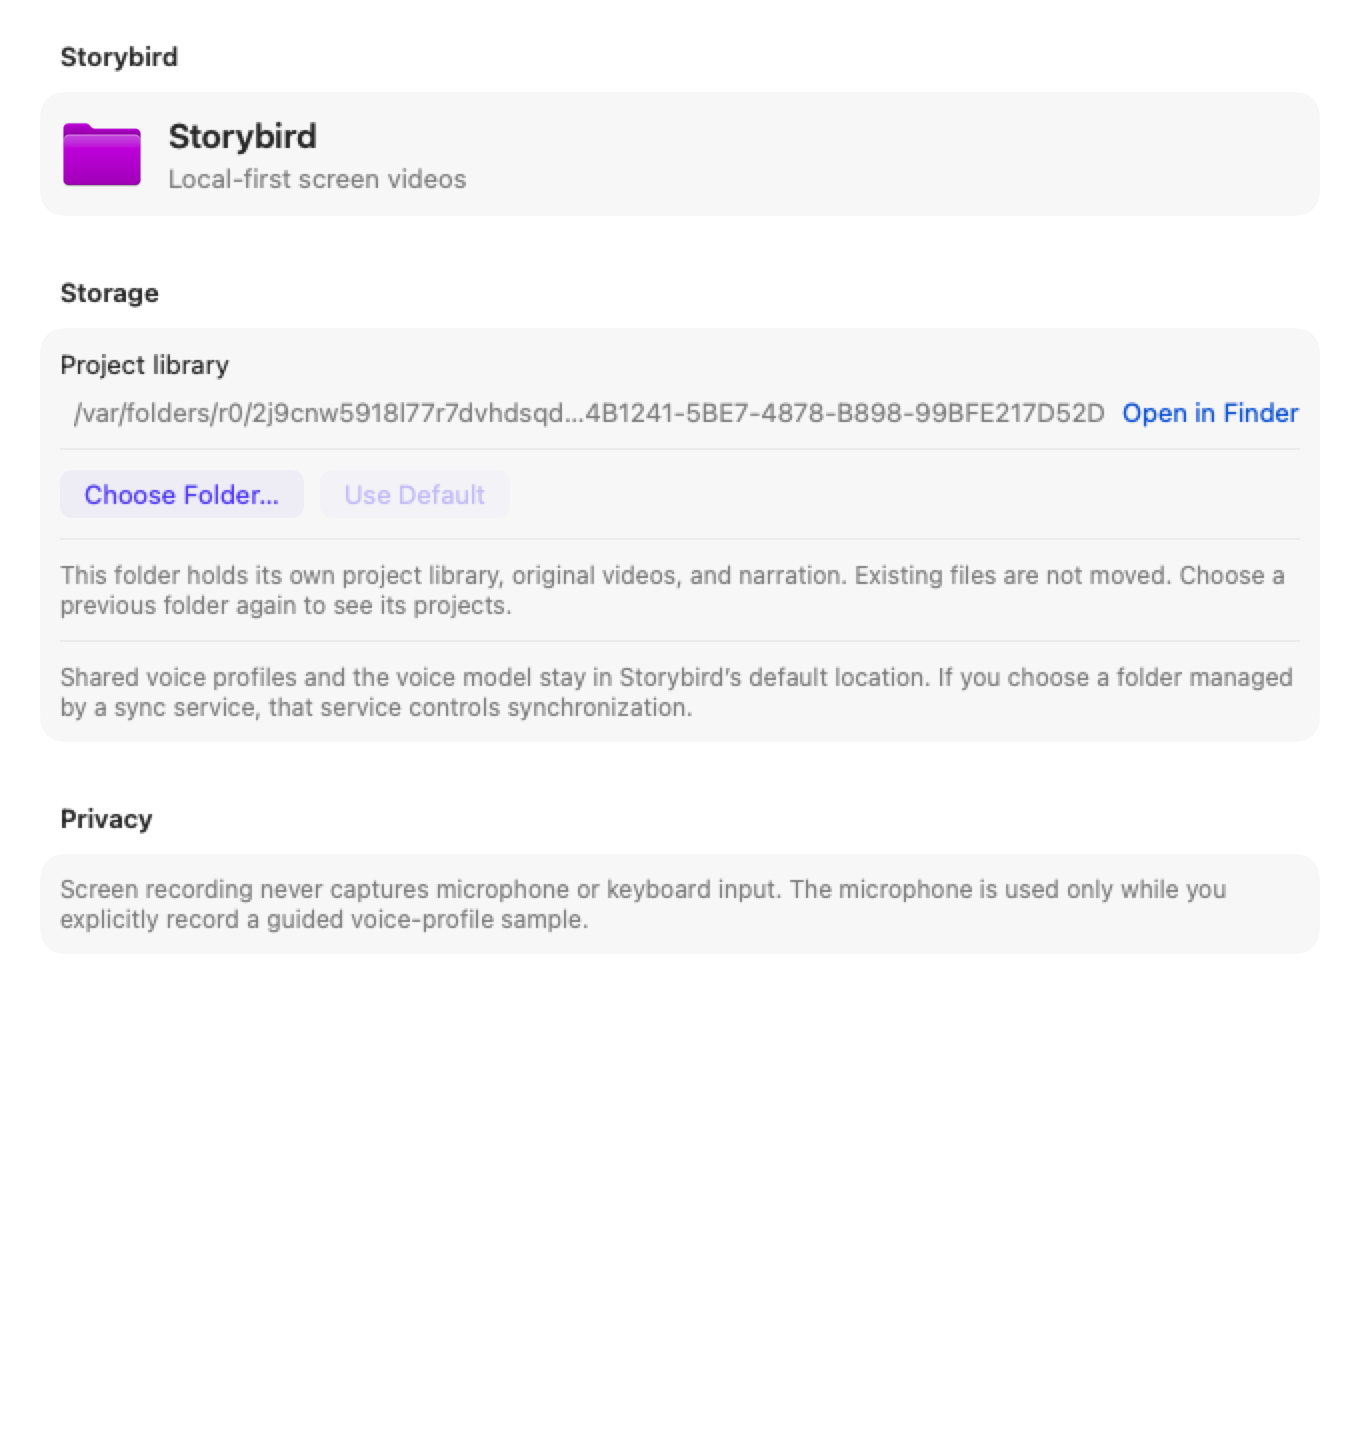
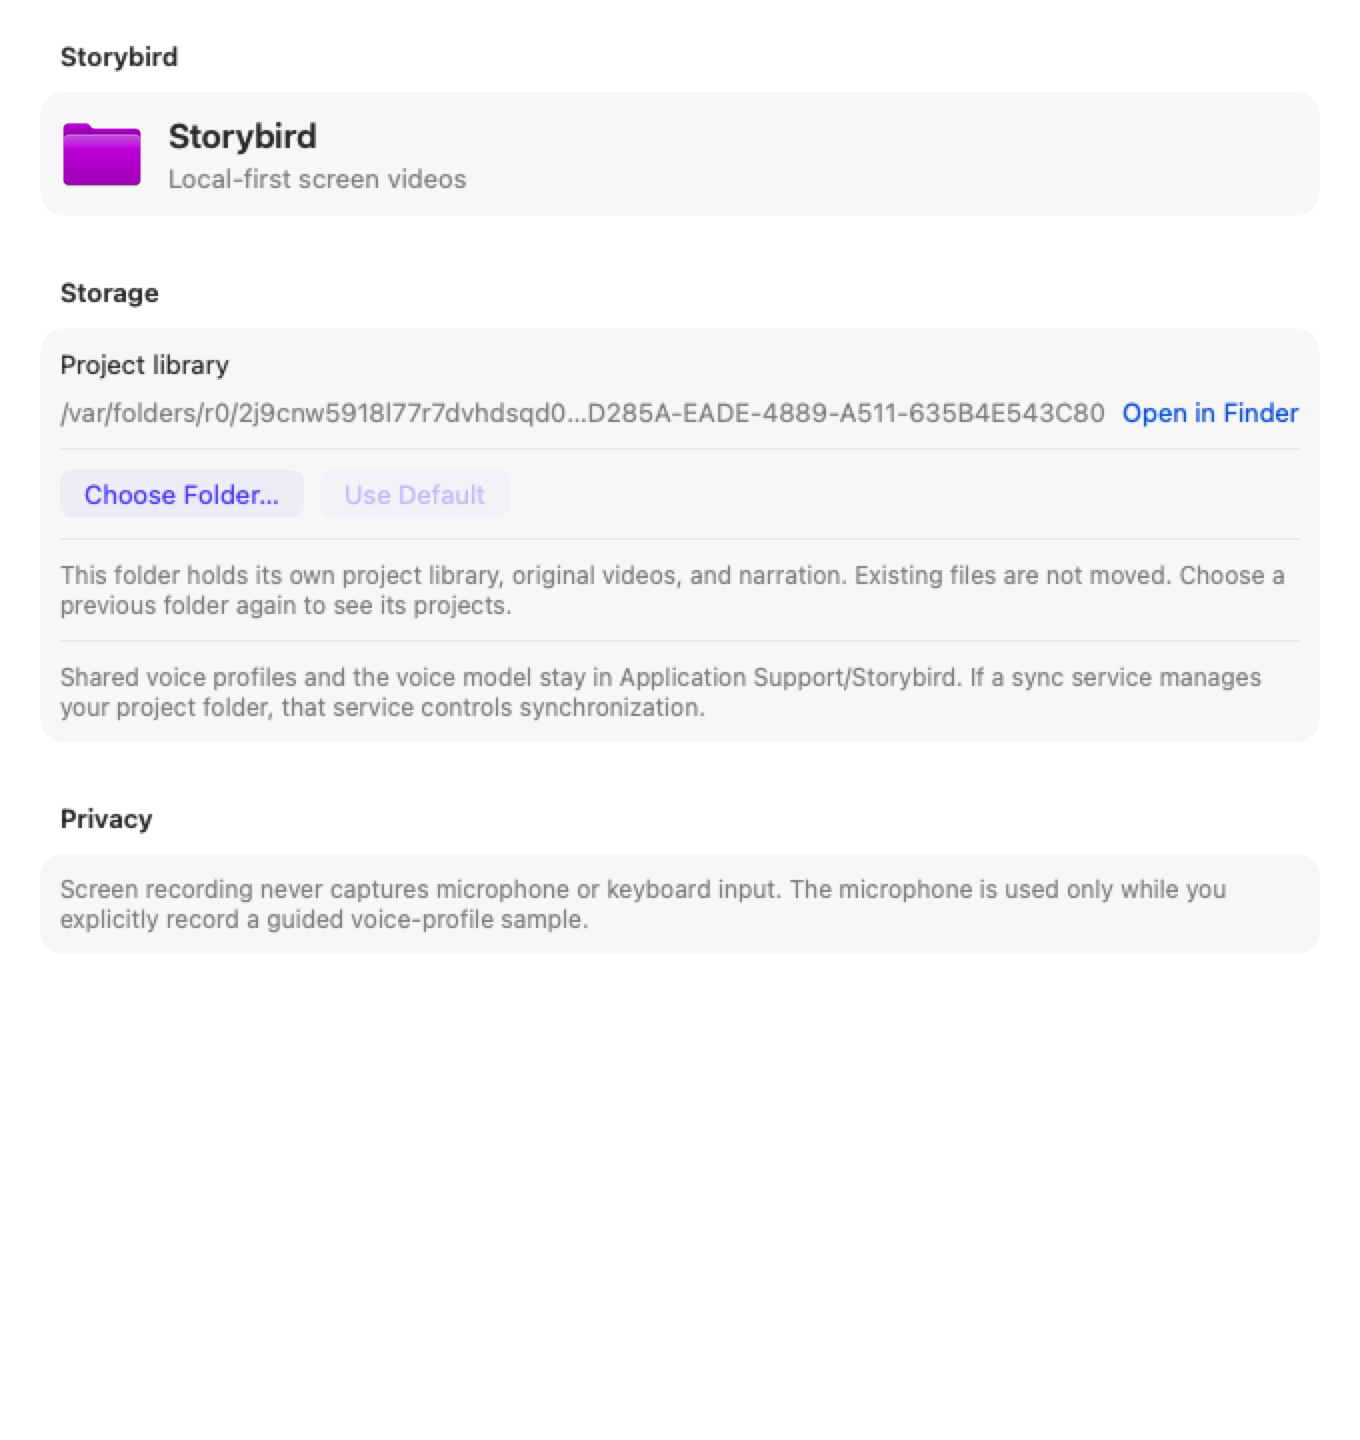
feat(library): use documents as the default project folder

Changed region(s): [[0.0309, 0.4688, 0.9574, 0.5], [0.0309, 0.2812, 0.8029, 0.3125]]

diff --git a/Tests/StorybirdCoreTests/ProjectStorageLocationTests.swift b/Tests/StorybirdCoreTests/ProjectStorageLocationTests.swift
@@ -1,0 +1,78 @@
+import Foundation
+import XCTest
+@testable import StorybirdCore
+
+final class ProjectStorageLocationTests: XCTestCase {
+    func test_live_usesDocumentsAndPreservesExistingApplicationSupportLibrary() throws {
+        let manager = try fixture()
+        let oldRoot = manager.support.appendingPathComponent("Storybird", isDirectory: true)
+        let old = ProjectRepository(rootURL: oldRoot)
+        let project = DemoProject(name: "Previous library", createdAt: Date(timeIntervalSince1970: 0), updatedAt: Date(timeIntervalSince1970: 0))
+        try old.saveProjects([project])
+        let index = oldRoot.appendingPathComponent("library.json")
+        let bytes = try Data(contentsOf: index)
+
+        let live = try ProjectRepository.live(fileManager: manager)
+        XCTAssertEqual(live.rootURL, manager.documents.appendingPathComponent("Storybird", isDirectory: true))
+        XCTAssertEqual(live.sharedRootURL, oldRoot)
+        XCTAssertEqual(try live.loadProjects(), [])
+        try live.saveProjects([DemoProject(name: "Documents project")])
+        XCTAssertEqual(try Data(contentsOf: index), bytes)
+        XCTAssertEqual(try old.loadProjects(), [project])
+        XCTAssertFalse(FileManager.default.fileExists(atPath: live.rootURL.appendingPathComponent("Voices").path))
+    }
+
+    func test_live_keepsOpenLaneCopyInApplicationSupport() throws {
+        let manager = try fixture()
+        let legacyRoot = manager.support.appendingPathComponent("OpenLane", isDirectory: true)
+        let legacy = ProjectRepository(rootURL: legacyRoot)
+        let project = DemoProject(name: "Legacy", createdAt: Date(timeIntervalSince1970: 0), updatedAt: Date(timeIntervalSince1970: 0))
+        try legacy.saveProjects([project])
+
+        let live = try ProjectRepository.live(fileManager: manager)
+        XCTAssertEqual(try live.loadProjects(), [])
+        XCTAssertEqual(try ProjectRepository(rootURL: live.sharedRootURL).loadProjects(), [project])
+        XCTAssertEqual(try legacy.loadProjects(), [project])
+    }
+
+    func test_documentsUnavailable_throwsWithoutUsingApplicationSupportForProjects() throws {
+        let manager = try fixture()
+        manager.documentsUnavailable = true
+        XCTAssertThrowsError(try ProjectRepository.live(fileManager: manager))
+        XCTAssertFalse(FileManager.default.fileExists(atPath: manager.documents.path))
+    }
+
+    private func fixture() throws -> StorageLocationFileManager {
+        let root = FileManager.default.temporaryDirectory
+            .appendingPathComponent("storybird-location-\(UUID().uuidString)", isDirectory: true)
+        try FileManager.default.createDirectory(at: root, withIntermediateDirectories: true)
+        addTeardownBlock { try FileManager.default.removeItem(at: root) }
+        return StorageLocationFileManager(root: root)
+    }
+}
+
+private final class StorageLocationFileManager: FileManager, @unchecked Sendable {
+    let documents: URL
+    let support: URL
+    var documentsUnavailable = false
+
+    init(root: URL) {
+        documents = root.appendingPathComponent("Documents", isDirectory: true)
+        support = root.appendingPathComponent("Application Support", isDirectory: true)
+        super.init()
+    }
+
+    override func urls(for directory: SearchPathDirectory, in domainMask: SearchPathDomainMask) -> [URL] {
+        directory == .applicationSupportDirectory ? [support] : [documents]
+    }
+
+    override func url(
+        for directory: SearchPathDirectory,
+        in domain: SearchPathDomainMask,
+        appropriateFor url: URL?,
+        create shouldCreate: Bool
+    ) throws -> URL {
+        if documentsUnavailable { throw CocoaError(.fileReadNoPermission) }
+        return directory == .documentDirectory ? documents : support
+    }
+}

diff --git a/Tests/StorybirdTests/StorybirdStorageTests.swift b/Tests/StorybirdTests/StorybirdStorageTests.swift
@@ -11,7 +11,10 @@ final class StorybirdStorageTests: XCTestCase {
         let root = FileManager.default.temporaryDirectory
             .appendingPathComponent("storybird-storage-\(UUID().uuidString)")
             .resolvingSymlinksInPath()
-        let repository = ProjectRepository(rootURL: root.appendingPathComponent("default", isDirectory: true))
+        let repository = ProjectRepository(
+            rootURL: root.appendingPathComponent("Documents/Storybird", isDirectory: true),
+            sharedRootURL: root.appendingPathComponent("Application Support/Storybird", isDirectory: true)
+        )
         try repository.prepare()
         let domain = "storybird.storage.tests.\(UUID().uuidString)"
         let defaults = try XCTUnwrap(UserDefaults(suiteName: domain))
@@ -143,7 +146,7 @@ final class StorybirdStorageTests: XCTestCase {
         let bytes = Data("synthetic reference".utf8)
         try bytes.write(to: reference.url)
         try repository.saveVoiceProfiles([profile])
-        let runtime = try folder("VoiceRuntime", in: repository.rootURL)
+        let runtime = try folder("VoiceRuntime", in: repository.sharedRootURL)
         let marker = runtime.appendingPathComponent("ready")
         try bytes.write(to: marker)
         let store = AppStore(repository: repository, storagePreferences: preferences)
@@ -151,7 +154,7 @@ final class StorybirdStorageTests: XCTestCase {
 
         XCTAssertTrue(store.chooseStorageFolder(custom))
         XCTAssertEqual(store.voiceProfiles, [profile])
-        XCTAssertEqual(store.repository.sharedRootURL, repository.rootURL)
+        XCTAssertEqual(store.repository.sharedRootURL, repository.sharedRootURL)
         XCTAssertEqual(store.repository.voiceReferenceURL(profileID: profile.id, filename: reference.filename), reference.url)
         let projectID = UUID()
         let narration = try store.repository.prepareNarrationURL(projectID: projectID)

diff --git a/Sources/StorybirdCore/ProjectRepository.swift b/Sources/StorybirdCore/ProjectRepository.swift
@@ -50,9 +50,18 @@ public struct ProjectRepository {
         self.decoder = decoder
     }
 
-    /// Resolves the fixed home for shared voice assets and local IPC without
-    /// creating files or performing legacy migration.
+    /// Resolves the user-visible project home without creating files.
     public static func defaultRootURL(fileManager: FileManager = .default) throws -> URL {
+        try fileManager.url(
+            for: .documentDirectory,
+            in: .userDomainMask,
+            appropriateFor: nil,
+            create: false
+        ).appendingPathComponent("Storybird", isDirectory: true)
+    }
+
+    /// Shared voice assets and local IPC retain their Application Support home.
+    public static func sharedRootURL(fileManager: FileManager = .default) throws -> URL {
         guard let applicationSupport = fileManager.urls(
             for: .applicationSupportDirectory,
             in: .userDomainMask
@@ -67,7 +76,7 @@ public struct ProjectRepository {
     }
 
     public static func live(fileManager: FileManager = .default) throws -> ProjectRepository {
-        let storybirdURL = try defaultRootURL(fileManager: fileManager)
+        let storybirdURL = try sharedRootURL(fileManager: fileManager)
         let legacyURL = storybirdURL.deletingLastPathComponent().appendingPathComponent(
             "OpenLane",
             isDirectory: true
@@ -78,7 +87,11 @@ public struct ProjectRepository {
             fileManager: fileManager
         )
 
-        return ProjectRepository(rootURL: storybirdURL, fileManager: fileManager)
+        return ProjectRepository(
+            rootURL: try defaultRootURL(fileManager: fileManager),
+            sharedRootURL: storybirdURL,
+            fileManager: fileManager
+        )
     }
 
     public static func migrateLegacyLibraryIfNeeded(

diff --git a/Sources/Storybird/AppStore.swift b/Sources/Storybird/AppStore.swift
@@ -62,14 +62,18 @@ final class AppStore: ObservableObject {
         } catch {
             let defaultRoot = (try? ProjectRepository.defaultRootURL())
                 ?? FileManager.default.homeDirectoryForCurrentUser
+                    .appendingPathComponent("Documents/Storybird", isDirectory: true)
+            let sharedRoot = (try? ProjectRepository.sharedRootURL())
+                ?? FileManager.default.homeDirectoryForCurrentUser
                     .appendingPathComponent("Library/Application Support/Storybird", isDirectory: true)
             defaultRepository = ProjectRepository(
                 rootURL: defaultRoot,
+                sharedRootURL: sharedRoot,
                 unavailableReason: error.localizedDescription
             )
             self.repository = ProjectRepository(
                 rootURL: selectedRoot ?? defaultRoot,
-                sharedRootURL: defaultRoot,
+                sharedRootURL: sharedRoot,
                 unavailableReason: error.localizedDescription
             )
             projects = []

diff --git a/Sources/Storybird/StorybirdSettingsView.swift b/Sources/Storybird/StorybirdSettingsView.swift
@@ -102,7 +102,7 @@ struct StorybirdSettingsView: View {
                 .font(.callout)
                 .foregroundStyle(.secondary)
                 Text(
-                    "Shared voice profiles and the voice model stay in Storybird’s default location. If you choose a folder managed by a sync service, that service controls synchronization."
+                    "Shared voice profiles and the voice model stay in Application Support/Storybird. If a sync service manages your project folder, that service controls synchronization."
                 )
                 .font(.callout)
                 .foregroundStyle(.secondary)

diff --git a/README.md b/README.md
@@ -270,16 +270,21 @@ than silently falling back to another location.
 The default layout is:
 
 ```text
-~/Library/Application Support/Storybird/
+~/Documents/Storybird/
 ├── library.json              # Projects, editing state, and narration draft metadata
-├── Assets/<project-id>/      # Source video and project-owned narration WAVs
+└── Assets/<project-id>/      # Source video and project-owned narration WAVs
+
+~/Library/Application Support/Storybird/
 ├── Voices/                   # Shared voice references and exact transcripts
 └── VoiceRuntime/             # Prepared runtime and model cache
 ```
 
 Custom project folders hold their own library and assets. Shared voice profiles,
-the model, and the authenticated local MCP socket remain at the default root.
-If a sync service manages your chosen folder, that service controls any upload.
+the model, and the authenticated local MCP socket remain in Application Support.
+**Use Default** selects `~/Documents/Storybird`. Previously selected custom folders
+are preserved. Existing Application Support projects are not moved or merged;
+select `~/Library/Application Support/Storybird` in Settings to access them.
+If a sync service manages your project folder, that service controls any upload.
 
 - Ordinary recording, editing, and export have no Storybird-owned upload path.
 - Initial voice-model preparation requires the approved download; later synthesis

diff --git a/AGENTS.md b/AGENTS.md
@@ -86,7 +86,9 @@ Read these before changing capture, persistence, or export behavior.
   never move or merge existing projects. Block changes throughout UI/MCP
   recording, import, export, and voice work. Unavailable or damaged folders keep
   the selection and report an error; never silently write to a fallback folder.
-  Shared voice profiles, models, and the MCP socket stay at the default root.
+  The default project root is `~/Documents/Storybird`. Existing projects are not
+  moved; select their previous folder to access them. Shared voice profiles,
+  models, and the MCP socket stay in `~/Library/Application Support/Storybird`.
 - **Preserve legacy data.** On first Storybird launch, copy an existing
   `Application Support/OpenLane` library only when the Storybird library does
   not exist. Never delete or move the legacy copy.
@@ -241,6 +243,7 @@ attach captured customer screens or exported customer demos.
 ## Security & Privacy
 
 Never commit recordings, capture thumbnails, generated project libraries,
-credentials, or files from `~/Library/Application Support/Storybird`. Treat any
+credentials, or files from `~/Documents/Storybird` or
+`~/Library/Application Support/Storybird`. Treat any
 change that expands permissions, storage scope, export content, or network
 access as a security-sensitive behavior change requiring an ADR.

diff --git a/docs/adr/library/decision-log.md b/docs/adr/library/decision-log.md
@@ -3,6 +3,15 @@
 이 문서는 library 카테고리의 주요 결정 변경 이력이다. ADR 본문은 현재 상태만 서술하고,
 주요 전환은 최신 순으로 남긴다.
 
+## 2026-09-10 — 기본 프로젝트 위치를 문서 폴더로 지정
+
+- **현재 ADR**: [local-project-library](./0001-local-project-library.md)
+- **변경 유형**: 저장 위치 계약
+- **무엇이**: 기본 프로젝트 위치와 기본 위치 복원을 Application Support에서
+  `~/Documents/Storybird`로 변경한다. 사용자 지정 폴더와 기존 파일을 보존하며 공유 음성
+  자산과 MCP 연결은 Application Support에 유지한다.
+- **왜**: Scribird처럼 Finder에서 프로젝트를 쉽게 찾고 백업할 수 있어야 한다.
+
 ## 2026-09-10 — 독립 복제와 음성 초안 소유권
 
 - **현재 ADR**: [local-project-library](./0001-local-project-library.md)

diff --git a/CONTRIBUTING.md b/CONTRIBUTING.md
@@ -136,7 +136,9 @@ ScreenCaptureKit and TCC behavior require a real signed bundle:
     confirm it displays its own library. Import a synthetic video, generate
     narration from an existing synthetic profile, export it, and restart.
     Confirm the selected folder and project persist, shared voice assets stay
-    at the default location, and the MCP client lists the selected library.
+    in Application Support, and the MCP client lists the selected library.
+    Confirm **Use Default** selects `~/Documents/Storybird` and existing
+    Application Support projects remain accessible by selecting that folder.
     Restore the default and reselect the custom folder; neither library may
     move or merge. Cancel the picker and try read-only, missing, and malformed
     libraries; selection must remain unchanged. During UI/MCP recording,

diff --git a/docs/Troubleshooting.md b/docs/Troubleshooting.md
@@ -83,10 +83,11 @@ exists, is readable, and there is enough disk space for a project-owned copy.
 ## Projects disappear after changing the storage folder
 
 Each folder has a separate library. Open **Settings › General › Storage** and
-select the previous folder, or choose **Use Default** for the original
-Application Support library. Storybird does not move, delete, or merge projects
+select the previous folder. **Use Default** selects `~/Documents/Storybird`.
+For projects saved at the previous default, select
+`~/Library/Application Support/Storybird`. Storybird does not move, delete, or merge projects
 when changing the folder. Shared voice profiles and the prepared model stay in
-the default location.
+Application Support.
 
 ## The selected project folder is unavailable
 
